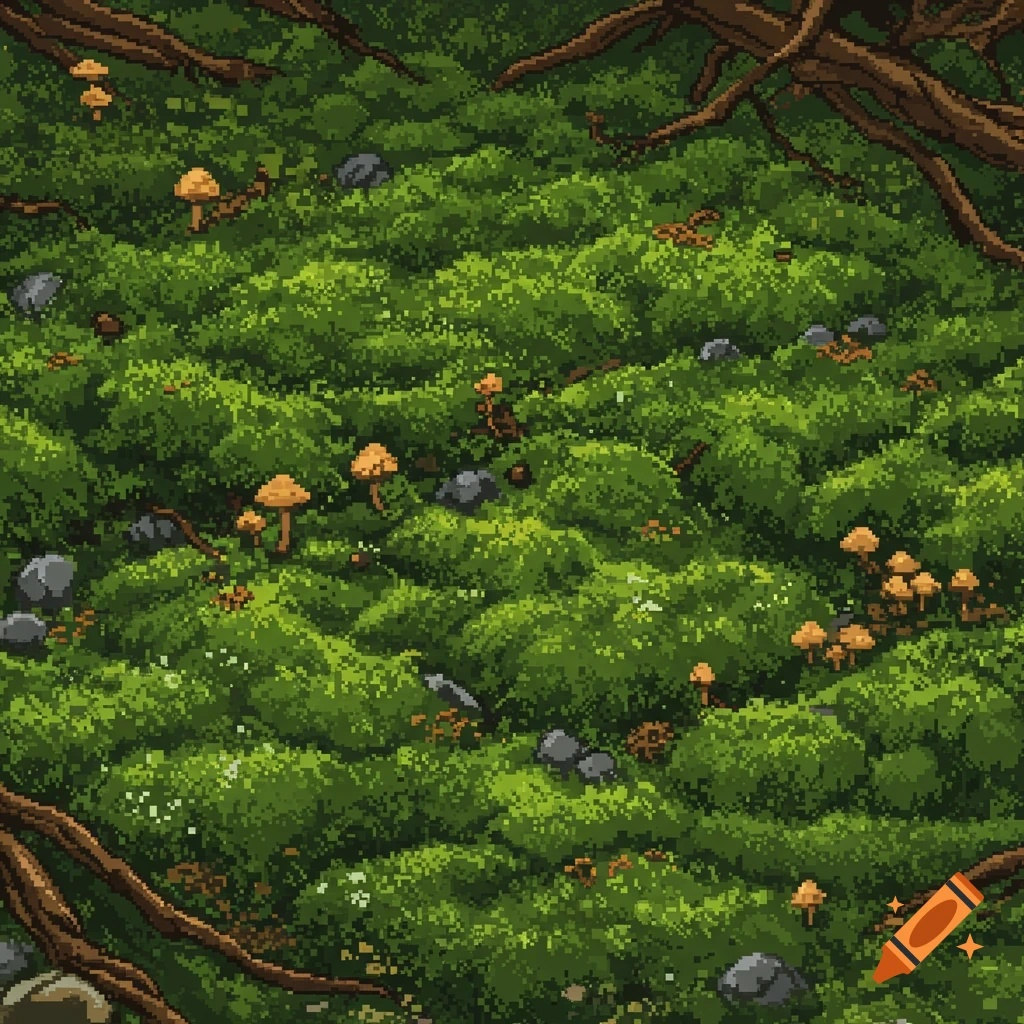
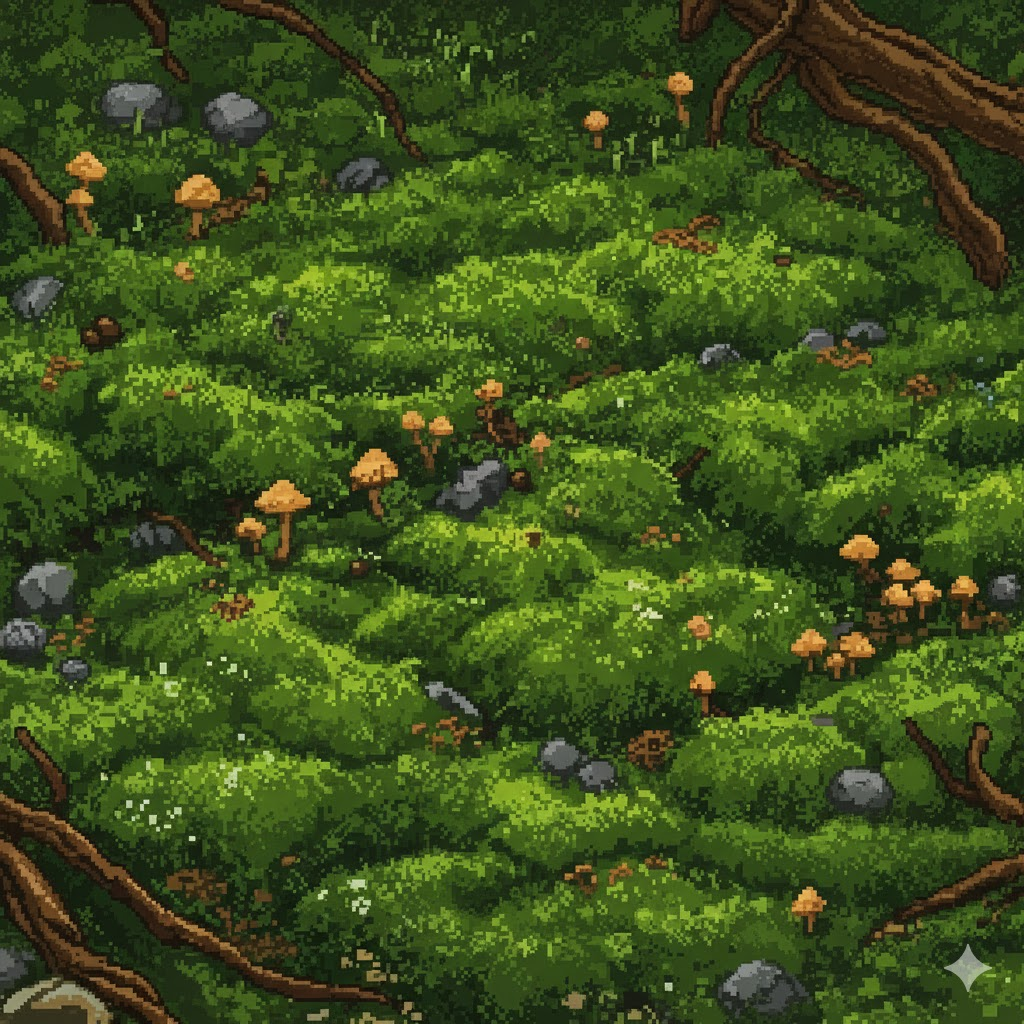
beforethread

diff --git a/src/main/java/scene/CretaceousExplorationScene.java b/src/main/java/scene/CretaceousExplorationScene.java
@@ -7,6 +7,8 @@ import javafx.scene.canvas.GraphicsContext;
 import javafx.scene.image.Image;
 import javafx.scene.input.KeyCode;
 import javafx.scene.layout.StackPane;
+import spawnscreen.Item.Base.Item;
+import spawnscreen.Item.Potion.HealPotion;
 import spawnscreen.LivingThing.Player;
 
 import java.util.*;
@@ -119,6 +121,37 @@ public class CretaceousExplorationScene {
                 d.update(player);
             }
         }
+        checkItemPickup();
+    }
+
+    private void checkItemPickup() {
+
+        if (!keys.contains(KeyCode.E)) return;
+
+        double px = player.getX();
+        double py = player.getY();
+
+        for (Chunk chunk : loadedChunks.values()) {
+
+            Iterator<WorldItem> iterator = chunk.items.iterator();
+
+            while (iterator.hasNext()) {
+
+                WorldItem wi = iterator.next();
+
+                double dx = px - wi.x;
+                double dy = py - wi.y;
+
+                double distSq = dx * dx + dy * dy;
+
+                if (distSq < 60*60) { // pickup range
+
+                    player.addItem(wi.item);
+                    iterator.remove(); // remove from world
+                    return; // pick only one per press
+                }
+            }
+        }
     }
 
     private void updateChunks() {
@@ -144,19 +177,24 @@ public class CretaceousExplorationScene {
         }
 
         // ✅ REMOVE FAR CHUNKS
-        loadedChunks.keySet().removeIf(p -> !needed.contains(p));
+        if (loadedChunks.size() > 200) {
+            loadedChunks.clear(); // safety limit
+        }
     }
 
     private void render() {
 
         gc.clearRect(0, 0, WIDTH, HEIGHT);
-
         gc.save();
         gc.translate(-cameraX, -cameraY);
 
-        drawInfiniteBackground();
-
         for (Chunk chunk : loadedChunks.values()) {
+
+            double baseX = chunk.chunkX * CHUNK_SIZE;
+            double baseY = chunk.chunkY * CHUNK_SIZE;
+
+            // Draw background per chunk
+            gc.drawImage(background, baseX, baseY, CHUNK_SIZE, CHUNK_SIZE);
 
             for (WorldItem wi : chunk.items) {
                 gc.drawImage(ITEM_IMAGE, wi.x, wi.y, 40, 40);
@@ -172,20 +210,6 @@ public class CretaceousExplorationScene {
         gc.restore();
     }
 
-    private void drawInfiniteBackground() {
-
-        double bgW = background.getWidth();
-        double bgH = background.getHeight();
-
-        int startX = (int)Math.floor(cameraX / bgW);
-        int startY = (int)Math.floor(cameraY / bgH);
-
-        for (int x = startX - 1; x <= startX + (WIDTH / bgW) + 2; x++) {
-            for (int y = startY - 1; y <= startY + (HEIGHT / bgH) + 2; y++) {
-                gc.drawImage(background, x * bgW, y * bgH);
-            }
-        }
-    }
 
     /* ========================= */
 
@@ -208,35 +232,50 @@ public class CretaceousExplorationScene {
 
     private class Chunk {
 
+        int chunkX, chunkY;
+
         List<WorldItem> items = new ArrayList<>();
         List<Dinosaur> dinosaurs = new ArrayList<>();
 
         Chunk(int chunkX, int chunkY) {
 
+            this.chunkX = chunkX;
+            this.chunkY = chunkY;
+
             double baseX = chunkX * CHUNK_SIZE;
             double baseY = chunkY * CHUNK_SIZE;
 
-            for(int i=0;i<3;i++){
+            // Spawn items
+            for (int i = 0; i < 3; i++) {
                 items.add(new WorldItem(
-                        baseX + Math.random()*CHUNK_SIZE,
-                        baseY + Math.random()*CHUNK_SIZE
+                        baseX + Math.random() * CHUNK_SIZE,
+                        baseY + Math.random() * CHUNK_SIZE
                 ));
             }
 
-            if(Math.random()<0.4){
+            // Spawn dinosaur (40% chance)
+            if (Math.random() < 0.4) {
                 dinosaurs.add(new Dinosaur(
-                        baseX + Math.random()*CHUNK_SIZE,
-                        baseY + Math.random()*CHUNK_SIZE
+                        baseX + Math.random() * CHUNK_SIZE,
+                        baseY + Math.random() * CHUNK_SIZE
                 ));
             }
         }
     }
 
     private static class WorldItem {
-        double x,y;
-        WorldItem(double x,double y){
-            this.x=x;
-            this.y=y;
+        double x, y;
+        Item item;
+        Image image;
+
+        WorldItem(double x, double y) {
+
+            this.x = x;
+            this.y = y;
+
+            // randomly spawn potion
+            this.item = new HealPotion();  // you can random later
+            this.image = ((HealPotion) item).getImage();
         }
     }
 
@@ -255,11 +294,11 @@ public class CretaceousExplorationScene {
             double dx = player.getX() - x;
             double dy = player.getY() - y;
 
-            double distance = Math.sqrt(dx * dx + dy * dy);
-
-            if (distance > 1) {
-                x += (dx / distance) * SPEED;
-                y += (dy / distance) * SPEED;
+            double distSq = dx * dx + dy * dy;
+            if (distSq > 1) {
+                double inv = 1 / Math.sqrt(distSq);
+                x += dx * inv * SPEED;
+                y += dy * inv * SPEED;
             }
         }
     }

diff --git a/src/main/java/spawnscreen/Scene/SpawnCanvas.java b/src/main/java/spawnscreen/Scene/SpawnCanvas.java
@@ -50,7 +50,9 @@ public class SpawnCanvas extends Canvas {
             items.add(new SpeedPotion());
             items.add(new Noose());
         }
-        player.setInventory(items);
+        for (Item item : items) {
+            player.addItem(item);
+        }
         //***********************************************
 
         startGameLoop();   // ✅ ต้องเรียก

diff --git a/src/main/java/spawnscreen/Scene/SpawnScreen.java b/src/main/java/spawnscreen/Scene/SpawnScreen.java
@@ -136,7 +136,6 @@ public class SpawnScreen extends StackPane {
         hideInventory();
     }
 
-
     public SpawnCanvas getSpawnCanvas(){
         return spawnCanvas;
     }
